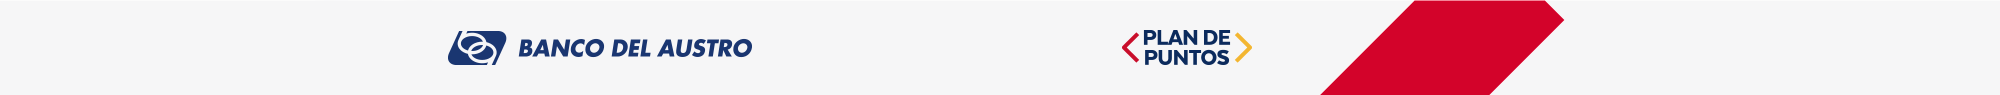
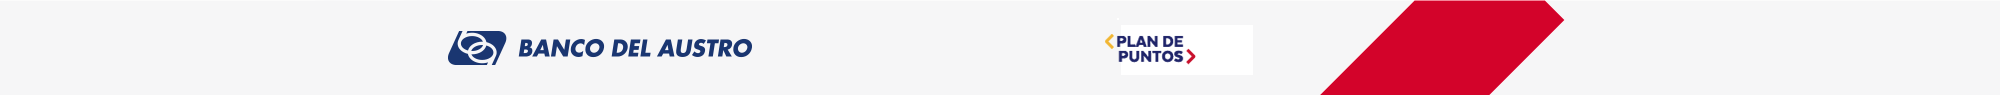
Fixes #1

Changed region(s): [[0.558, 0.3158, 0.62, 0.6947]]

diff --git a/index.html b/index.html
@@ -14,9 +14,9 @@
 	<link href="css/idangerous.swiper.css" rel="stylesheet" type="text/css" />
 	<link href="css/style.css" rel="stylesheet" type="text/css" />
 	<link href="css/font-awesome.min.css" rel="stylesheet" type="text/css" />
-	<link href="fonts/fonts.css" rel="stylesheet" type="text/css" charset="utf-8" />
-	<link href='https://fonts.googleapis.com/css?family=Titillium+Web:400,600italic,600,400italic,300' rel='stylesheet' type='text/css'>
-	<script src="https://ajax.googleapis.com/ajax/libs/jquery/2.1.4/jquery.min.js" type="text/javascript"></script>
+	<link href="fonts/fonts.css" rel="stylesheet" type="text/css" />
+
+
 
 	<link rel="shortcut icon" href="img/favicon.ico" />
 	<title>Banco del Austro</title>
@@ -106,8 +106,8 @@
 						<div class="navigation-banner-wrapper light-text align-3" style="background-image:url(img/bg/bg-1.png);background-position: center center;">
 							<div class="navigation-banner-content content-push">
 								<div class="cell-view">
-									<img src="img/bg/logo-banner1.png" alt="">
-									<h2 class="subtitle" style="font-weight: 600;">El ahorro es uno de <br> los principales medios para <br> alcanzar sus metas</h2>
+									<img src="img/bg/logo-plan.png" alt="">
+									<h2 class="subtitle">El ahorro es uno de los <br>principales medios para <br> alcanzar sus metas</h2>
 									<div class="description"><a href="index.html" class="button style-10" style="padding: ;">Ver Catálogo</a></div>
 								</div>
 							</div>
@@ -118,8 +118,8 @@
 						<div class="navigation-banner-wrapper light-text align-3" style="background-image:url(img/bg/bg-1.png);background-position: center center;">
 							<div class="navigation-banner-content content-push">
 								<div class="cell-view">
-									<img src="img/bg/logo-banner1.png" alt="">
-									<h2 class="subtitle" style="font-weight: 600;">El ahorro es uno de <br> los principales medios para <br> alcanzar sus metas</h2>
+									<img src="img/bg/logo-plan.png" alt="">
+									<h2 class="subtitle" >Acumule puntos por todas<br>las transacciones que realice<br>con su tarjeta</h2>
 									<div class="description"><a href="index.html" class="button style-10">Ver Catálogo</a></div>
 								</div>
 							</div>
@@ -130,8 +130,8 @@
 						<div class="navigation-banner-wrapper light-text align-3" style="background-image:url(img/bg/bg-1.png);background-position: center center;">
 							<div class="navigation-banner-content content-push">
 								<div class="cell-view">
-									<img src="img/bg/logo-banner1.png" alt="">
-									<h2 class="subtitle" style="font-weight: 600;">El ahorro es uno de <br> los principales medios para <br> alcanzar sus metas</h2>
+									<img src="img/bg/logo-plan.png" alt="">
+									<h2 class="subtitle">El ahorro es uno de <br> los principales medios para <br> alcanzar sus metas</h2>
 									<div class="description"><a href="index.html" class="button style-10">Ver Catálogo</a></div>
 								</div>
 							</div>
@@ -187,8 +187,8 @@
 								<div class="paddings-container">
 									<div class="product-slide-entry shift-image">
 										<div class="product-image">
-											<img src="img/productos/reloj.png" alt="" />
-											<img src="img/productos/reloj.png" alt="" />
+											<img src="img/productos/cafetera.png" alt="" />
+											<img src="img/productos/cafetera.png" alt="" />
 											<a class="top-line-a right open-product"><i class="fa fa-expand"></i> <span>Vista Previa</span></a>
 											<div class="hover-black"></div>
 											<a class="btn-verdetalle" href="detalle_producto.html"> Ver Detalle</a>
@@ -201,7 +201,7 @@
 												</div>
 											</div>
 										</div>
-										<a class="title" href="detalle_producto.html">Reloj TISSOT</a>
+										<a class="title" href="detalle_producto.html">Cafetera</a>
 										<div class="price">
 											<div class="current">5559 Pts.</div>
 										</div>
@@ -212,8 +212,8 @@
 								<div class="paddings-container">
 									<div class="product-slide-entry shift-image">
 										<div class="product-image">
-											<img src="img/productos/lentes.png" alt="" />
-											<img src="img/productos/lentes.png" alt="" />
+											<img src="img/productos/audifonos.png" alt="" />
+											<img src="img/productos/audifonos.png" alt="" />
 											<a class="top-line-a right open-product"><i class="fa fa-expand"></i> <span>Vista Previa</span></a>
 											<div class="hover-black"></div>
 											<a class="btn-verdetalle" href="detalle_producto.html">Ver Detalle</a>
@@ -226,7 +226,7 @@
 												</div>
 											</div>
 										</div>
-										<a class="title" href="detalle_producto.html">Lentes Ray Ban</a>
+										<a class="title" href="detalle_producto.html">Audifonos</a>
 										<div class="price">
 											<div class="current">5650 Pts.</div>
 										</div>
@@ -237,8 +237,8 @@
 								<div class="paddings-container">
 									<div class="product-slide-entry shift-image">
 										<div class="product-image">
-											<img src="img/productos/secadora.png" alt="" />
-											<img src="img/productos/secadora.png" alt="" />
+											<img src="img/productos/aspiradora.png" alt="" />
+											<img src="img/productos/aspiradora.png" alt="" />
 											<a class="top-line-a right open-product"><i class="fa fa-expand"></i> <span>Vista Previa</span></a>
 											<div class="hover-black"></div>
 											<a class="btn-verdetalle" href="detalle_producto.html">Ver Detalle</a>
@@ -251,7 +251,7 @@
 												</div>
 											</div>
 										</div>
-										<a class="title" href="detalle_producto.html">Secadora</a>
+										<a class="title" href="detalle_producto.html">Aspiradora</a>
 										<div class="price">
 											<div class="current">5559 Pts.</div>
 										</div>
@@ -262,8 +262,8 @@
 								<div class="paddings-container">
 									<div class="product-slide-entry shift-image">
 										<div class="product-image">
-											<img src="img/productos/licuadora.png" alt="" />
-											<img src="img/productos/licuadora.png" alt="" />
+											<img src="img/productos/extractor.png" alt="" />
+											<img src="img/productos/extractor.png" alt="" />
 											<a class="top-line-a right open-product"><i class="fa fa-expand"></i> <span>Vista Previa</span></a>
 											<div class="hover-black"></div>
 											<a class="btn-verdetalle" href="detalle_producto.html">Ver Detalle</a>
@@ -276,7 +276,7 @@
 												</div>
 											</div>
 										</div>
-										<a class="title" href="detalle_producto.html">Licuadora Philips</a>
+										<a class="title" href="detalle_producto.html">Extractor</a>
 										<div class="price">
 											<div class="current">1350 Pts.</div>
 										</div>

diff --git a/css/style.css b/css/style.css
@@ -1,7 +1,3 @@
-body {
-	font-family: 'TextaRegular', sans-serif;
-	font-family: 'TextaBold', sans-serif;
-}
 
 html,
 body,
@@ -163,8 +159,7 @@ ul {
 }
 
 body {
-	font-family: 'TextaBold', sans-serif;
-	font-weight: 700;
+	font-family: 'TextaRegular', sans-serif;
 	font-size: 14px;
 	line-height: 1;
 	background: #F7F7F8;
@@ -424,12 +419,11 @@ body {
 
 .button {
 	font-family: 'TextaRegular', sans-serif;
-	font-size: 13px;
+	font-size: 12px;
 	font-style: normal !important;
-	line-height: 18px;
-	padding: 6px 0px 6px;
+	line-height: 15px;
+	padding: 5px;
 	text-transform: uppercase;
-	font-weight: 600;
 	color: #fff;
 	overflow: hidden;
 	position: relative;
@@ -2782,7 +2776,7 @@ footer#footer li {
 footer#footer li a {
 	display: inline-block;
 	color: #1E2C59;
-	font-size: 15px;
+	font-size: 14px;
 	padding: 5px 0;
 	position: relative;
 	line-height: 15px;
@@ -2794,7 +2788,7 @@ footer h3 {
 	margin-bottom: 10px;
 	font-family: 'TextaRegular', sans-serif;
 	color: #1E2C59;
-	font-size: 16px;
+	font-size: 14px;
 	margin-left: -16px;
 	border-bottom: 1px solid #1d24693b;
 	line-height: 25px;
@@ -3776,9 +3770,8 @@ footer {
 
 .product-slide-entry .title {
 	display: block;
-	font-size: 16px;
+	font-size: 14px;
 	line-height: 18px;
-	font-weight: 600;
 	color: #C9002C;
 	margin-bottom: 8px;
 	margin-top: 10px;
@@ -3815,13 +3808,6 @@ footer {
 	color: #989898;
 	text-decoration: line-through;
 	display: inline-block;
-}
-
-.price .current {
-	color: #da75cb;
-	display: inline-block;
-	font-size: 18px;
-	font-weight: 800;
 }
 
 .swiper-tabs:before,
@@ -4306,7 +4292,7 @@ body:not(.mobile) #content-block .sidebar-navigation .entry:hover .fa {
 
 .navigation-banner-content .subtitle {
 	font-family: 'TextaRegular', sans-serif;
-	font-size: 18px!important;
+	font-size: 16px!important;
 	line-height: 20px;
 	color: #1E2C59;
 	margin: 10px 0;
@@ -10520,7 +10506,7 @@ table.pasos td {
 .descuento {
 	color: #1D2469;
 	font-weight: 600;
-	font-size: 20px;
+	font-size: 16px;
 	font-family: 'TextaRegular', sans-serif;
 }
 
